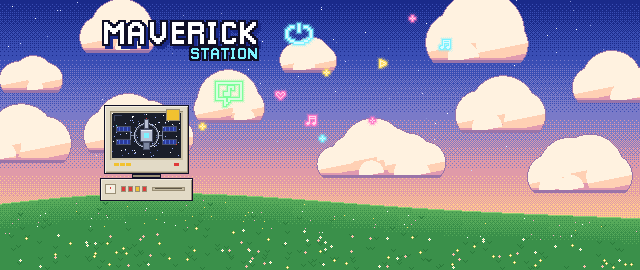
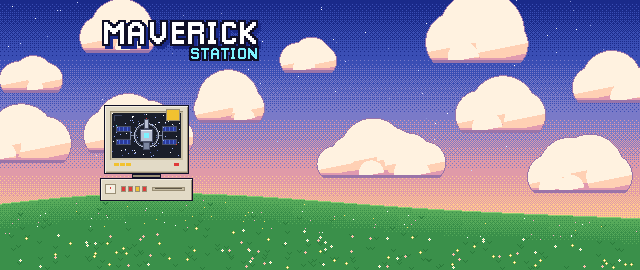
Bring back the neon sky shapes as a drifting layer

diff --git a/modular_maverick/html/lobby_desktop/mav_lobby.js b/modular_maverick/html/lobby_desktop/mav_lobby.js
@@ -118,6 +118,73 @@
 		wall_front = back;
 	}
 
+	// ------------------------------------------------------------- sky shapes
+
+	// [x, w, h, twinkles] for each shape in mav_sky_glyphs.png
+	var SKY_FRAMES = [[0, 32, 26, 0], [33, 32, 30, 0], [66, 16, 15, 0], [83, 15, 13, 0], [99, 11, 11, 1], [111, 11, 11, 1],
+		[123, 11, 11, 1], [135, 11, 11, 1], [147, 12, 13, 0], [160, 11, 11, 1], [172, 16, 15, 0]];
+	// Wallpaper art the shapes slip behind (wall coordinates): the wordmark, then the CRT.
+	var SKY_COVERS = [[96, 14, 166, 52], C.crt_hotspot || [100, 105, 92, 96]];
+	var sky_shapes = [];
+
+	// The neon shapes drift slowly across the sky, behind the windows, so some always peek out.
+	function build_sky(parent) {
+		var sky = el("div", null, parent);
+		sky.id = "sky";
+		var order = [0, 1, 2, 3, 8, 10, 4, 5, 6, 7, 9, 4, 6, 9];
+		for (var i = 0; i < order.length; i++) {
+			var f = SKY_FRAMES[order[i]];
+			var e = el("div", "sky_shape", sky);
+			e.style.width = f[1] + "px";
+			e.style.height = f[2] + "px";
+			e.style.backgroundPosition = -f[0] + "px 0";
+			sky_shapes.push({
+				e: e, w: f[1], h: f[2], twinkle: f[3],
+				x: Math.random() * stage_w,
+				lane: 6 + Math.random() * (172 - f[2]),
+				speed: (1.5 + Math.random() * 3) * (Math.random() < 0.5 ? -1 : 1),
+				bob: 1 + Math.random() * 3,
+				period: 5 + Math.random() * 6,
+				phase: Math.random() * 6.28,
+				fade: 1,
+			});
+		}
+		var last = null;
+		function frame(now) {
+			var dt = last === null ? 0 : Math.min(0.25, (now - last) / 1000);
+			last = now;
+			var t = now / 1000;
+			var wall_x = Math.round((stage_w - 640) / 2);
+			for (var j = 0; j < sky_shapes.length; j++) {
+				var s = sky_shapes[j];
+				s.x += s.speed * dt;
+				if (s.x > stage_w + 4) {
+					s.x = -s.w - 4;
+				} else if (s.x < -s.w - 4) {
+					s.x = stage_w + 4;
+				}
+				var x = Math.round(s.x);
+				var y = Math.round(s.lane + Math.sin(t * 6.28 / s.period + s.phase) * s.bob);
+				// fade out while crossing the wordmark or the CRT, so they read as passing behind
+				var hidden = false;
+				for (var k = 0; k < SKY_COVERS.length; k++) {
+					var c = SKY_COVERS[k];
+					var cx = c[0] + wall_x;
+					if (x < cx + c[2] && x + s.w > cx && y < c[1] + c[3] && y + s.h > c[1]) {
+						hidden = true;
+					}
+				}
+				s.fade = Math.max(0, Math.min(1, s.fade + (hidden ? -3 : 3) * dt));
+				var glow = s.twinkle ? 0.55 + 0.45 * Math.abs(Math.sin(t * 1.7 + s.phase)) : 1;
+				s.e.style.transform = "translate(" + x + "px," + y + "px)";
+				s.e.style.opacity = (s.fade * glow).toFixed(2);
+			}
+			window.requestAnimationFrame(frame);
+		}
+		window.requestAnimationFrame(frame);
+		return sky;
+	}
+
 	// ------------------------------------------------------------- lobby actions
 
 	var ready = false;
@@ -1323,6 +1390,7 @@
 
 	function build_lobby(root) {
 		build_wall(root);
+		build_sky(root);
 		var hot = el("div", null, root);
 		hot.id = "crt_hot";
 		hot.title = "station.exe";

diff --git a/modular_maverick/html/lobby_desktop/mav_lobby.css b/modular_maverick/html/lobby_desktop/mav_lobby.css
@@ -24,6 +24,8 @@ img { image-rendering: pixelated; border: none; }
 #wall { position: absolute; top: 0; width: 640px; height: 270px; }
 #wall img { position: absolute; left: 0; top: 0; transition: opacity 3s linear; }
 #crt_hot { position: absolute; cursor: pointer; }
+#sky { position: absolute; left: 0; top: 0; width: 100%; height: 270px; pointer-events: none; overflow: hidden; }
+.sky_shape { position: absolute; left: 0; top: 0; background: url("mav_sky_glyphs.png") no-repeat; image-rendering: pixelated; }
 
 /* ---------------------------------------------------------------- icons */
 .icon {
